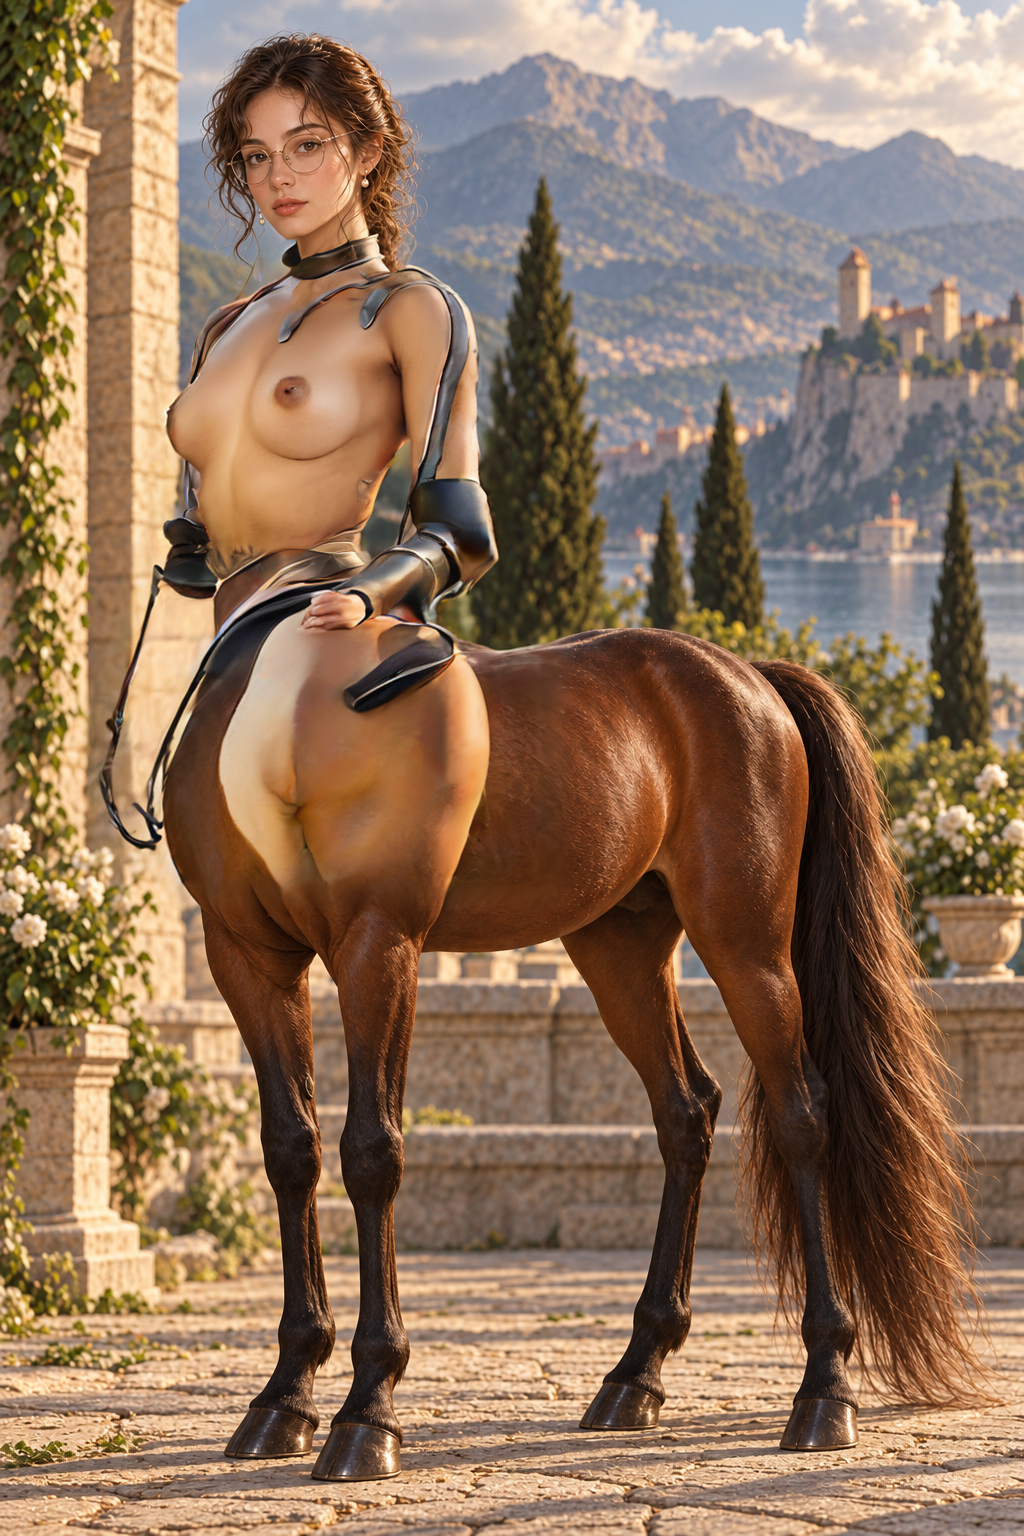
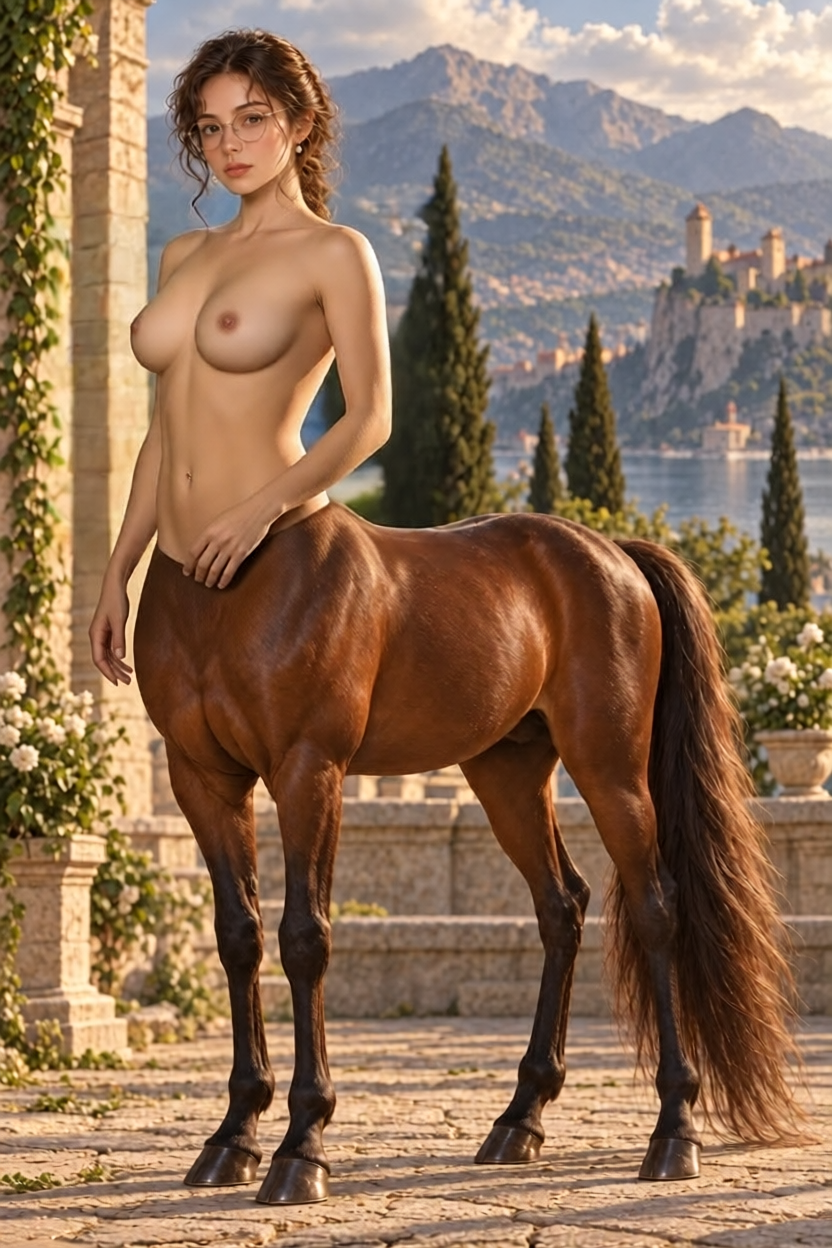
Archive R4 Qwen raw as official Elena nude usable still
User decision 2026-10-10 13:48: adopt elena-armor-centaur-nude-r4-raw
as library/best; document success=raw-before-paste; forbid more metal-armor spin.

diff --git a/ai-realistic-comic/library/stills/fox-centaur-embrace/STILL.md b/ai-realistic-comic/library/stills/fox-centaur-embrace/STILL.md
@@ -49,7 +49,9 @@
 | --- | --- | --- | --- | --- | --- |
 | 林 | `lin-qipao-nine-tail.png` | `lin-qipao-nine-tail-torn.png` | **8.75** | 空 | 近门；wardrobe 8，anatomy 9（保留此前最佳破衣） |
 | 林 | 同上 | `lin-qipao-nine-tail-nude.png` | 6.125 | `clothes_remain` | Fooocus 可开胸窗，裙/残布与 smear 仍过门 |
-| 伊莲 | `elena-armor-centaur.png` | `elena-armor-centaur-nude.png` | 7.375 | `armor_remain` | 躯干可露肤；护臂/腰甲与 smear 未净 |
+| 伊莲 | `elena-armor-centaur.png` | `elena-armor-centaur-nude.png`（= **r4-raw usable**） | 8.125† | 空（可接受腰缝/护腕） | **2026-10-10 归档**：Qwen-Edit raw；勿贴回覆盖；禁止再拧同甲 |
 | 伊莲 | 同上 | `elena-armor-centaur-torn.png` | 7.75 | `intact_clothes` | 破甲仍偏保守 |
 
-未过收留线。下一步优先 GroundingDINO 语义蒙版抠甲片轮廓，再叠 Fooocus。
+伊莲 nude 已过用户可用线（† scorer=`user_decision`，R4 Qwen raw）。林 nude / 破衣破甲仍未过收留线。
+
+~~未过收留线。下一步优先 GroundingDINO…~~（伊莲金属甲局部擦衣路线已停；见 `docs/fox-centaur-semantic-undress.md`「R4-raw 正式归档」。）
